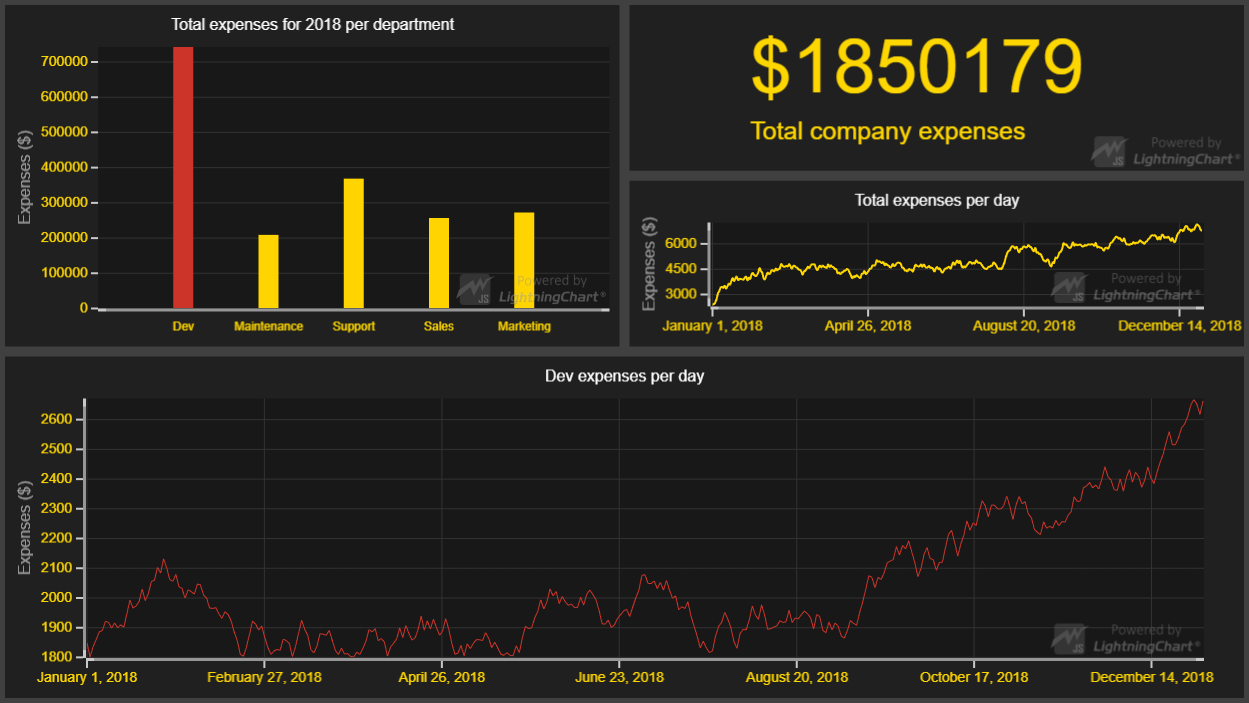
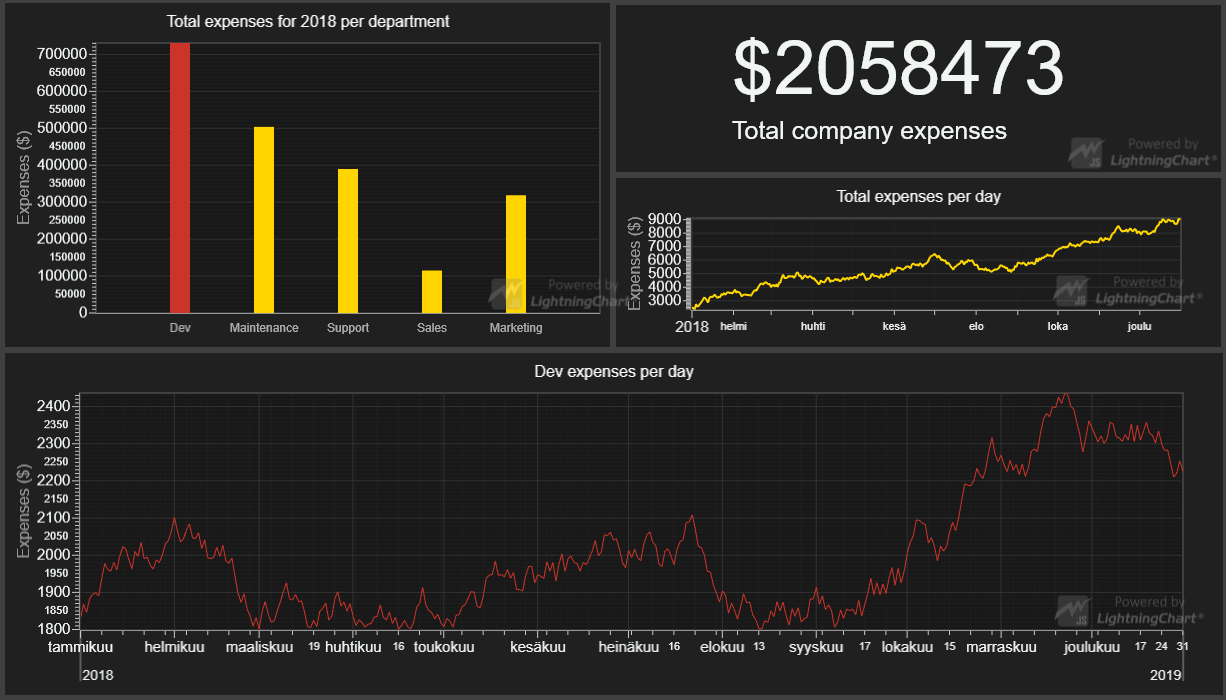
LCJS 2.0.0

diff --git a/src/index.js b/src/index.js
@@ -15,9 +15,10 @@ const {
     AutoCursorModes,
     AxisTickStrategies,
     emptyLine,
-    emptyTick,
     emptyFill,
-    AxisScrollStrategies
+    AxisScrollStrategies,
+    ColorRGBA,
+    Themes
 } = lcjs
 
 const {
@@ -54,6 +55,7 @@ const budgets = Promise.all(
 
 // Create dashboard which will host all chart and UI elements
 const db = lightningChart().Dashboard({
+    // theme: Themes.dark 
     numberOfRows: 3,
     numberOfColumns: 2
 })
@@ -87,7 +89,7 @@ const axisXSize = axisX.scale.getCellSize()
 // Modify X axis
 axisX
     // Disable default ticks.
-    .setTickStyle(emptyTick)
+    .setTickStrategy(AxisTickStrategies.Empty)
     // Disable mouse interactions
     .setMouseInteractions(false)
     // Set correct range, so that is in pixel coordinates
@@ -96,7 +98,9 @@ axisX
     .setScrollStrategy(undefined)
 
 // Modify Y axis
-barChart.getDefaultAxisY().setTitle('Expenses ($)')
+barChart
+    .getDefaultAxisY()
+    .setTitle('Expenses ($)')
     .setStrokeStyle(style => style.setThickness(0))
     .setNibStyle(emptyLine)
     .setMouseInteractions(false)
@@ -119,7 +123,9 @@ const customTicks = teams.map((team, i) => axisX
         // Change stroke style
         .setBackground(background => background
             .setStrokeStyle(emptyLine)
+            .setFillStyle(emptyFill)
         )
+        .setTextFillStyle(new SolidFill({ color: ColorRGBA(170, 170, 170) }))
     )
     // Disable gridstroke.
     .setGridStrokeStyle(emptyLine)
@@ -128,15 +134,13 @@ const customTicks = teams.map((team, i) => axisX
 
 // Decide on an origin for DateTime axes (shared between two charts).
 const dateOrigin = new Date(2018, 0, 1)
-const dateTimeTickStrategy = AxisTickStrategies.DateTime(dateOrigin)
 
 // Create chart for a single department costs distribution graph
 const lineChart = db.createChartXY({
     columnIndex: 0,
     rowIndex: 2,
     columnSpan: 2,
-    rowSpan: 1,
-    chartXYOptions: { defaultAxisXTickStrategy: dateTimeTickStrategy }
+    rowSpan: 1
 })
     .setPadding({ right: 40 })
 // Set the row height for the third row to take 50% of view space.
@@ -147,6 +151,13 @@ const lineSeries = lineChart
     .setName('Total Expenses')
     // Set selected fill color for the series
     .setStrokeStyle((style) => style.setFillStyle(selectedFillStyle))
+
+lineChart
+    .getDefaultAxisX()
+    .setTickStrategy(
+        AxisTickStrategies.DateTime,
+        (tickStrategy) => tickStrategy.setDateOrigin(dateOrigin)
+    )
 
 // Style chart selected department costs distribution
 budgets.then(
@@ -267,12 +278,18 @@ const totalCostsChart = db
         columnIndex: 1,
         rowIndex: 1,
         columnSpan: 1,
-        rowSpan: 1,
-        chartXYOptions: { defaultAxisXTickStrategy: dateTimeTickStrategy }
+        rowSpan: 1
     })
     // Specify ChartXY title
     .setTitle('Total expenses per day')
     .setPadding({ right: 40 })
+
+totalCostsChart
+    .getDefaultAxisX()
+    .setTickStrategy(
+        AxisTickStrategies.DateTime,
+        (tickStrategy) => tickStrategy.setDateOrigin(dateOrigin)
+    )
 
 const totalCost = totalCostsChart
     // Add the smooth line

diff --git a/README.md b/README.md
@@ -117,25 +117,25 @@ The dashboard grid is created with 4 rows and 2 columns. Some visualization comp
 
 ## API Links
 
-* Dashboard: [Dashboard]
-* XY cartesian chart: [ChartXY]
-* Axis: [Axis]
-* Axis tick strategies: [AxisTickStrategies]
-* cursor modes: [AutoCursorModes]
-* Segment series: [SegmentSeries]
-* Freeform line series: [LineSeries]
-* Spline series: [SplineSeries]
-* Custom tick: [CustomTick]
-* Solid LineStyle: [SolidLine]
-* Empty LineStyle: [emptyLine]
-* Solid FillStyle: [SolidFill]
-* Empty FillStyle: [emptyFill]
-* Empty TickStyle: [emptyTick]
-* Color palettes: [ColorPalettes]
-* UI Panel: [UIPanel]
-* UI Layout builders: [UILayoutBuilders]
-* UI Elements builders: [UIElementBuilders]
-* Font settings: [FontSettings]
+* [Dashboard]
+* [XY cartesian chart]
+* [Axis]
+* [Axis tick strategies]
+* [cursor modes]
+* [Segment series]
+* [Freeform line series]
+* [Spline series]
+* [Custom tick]
+* [Solid LineStyle]
+* [Empty LineStyle]
+* [Solid FillStyle]
+* [Empty FillStyle]
+* [Empty TickStyle]
+* [Color palettes]
+* [UI Panel]
+* [UI Layout builders]
+* [UI Elements builders]
+* [Font settings]
 
 
 ## Support
@@ -159,23 +159,23 @@ Direct developer email support can be purchased through a [Support Plan][4] or b
 © Arction Ltd 2009-2020. All rights reserved.
 
 
-[Dashboard]: https://www.arction.com/lightningchart-js-api-documentation/v1.3.0/classes/dashboard.html
-[ChartXY]: https://www.arction.com/lightningchart-js-api-documentation/v1.3.0/classes/chartxy.html
-[Axis]: https://www.arction.com/lightningchart-js-api-documentation/v1.3.0/classes/axis.html
-[AxisTickStrategies]: https://www.arction.com/lightningchart-js-api-documentation/v1.3.0/globals.html#axistickstrategies
-[AutoCursorModes]: https://www.arction.com/lightningchart-js-api-documentation/v1.3.0/enums/autocursormodes.html
-[SegmentSeries]: https://www.arction.com/lightningchart-js-api-documentation/v1.3.0/classes/segmentseries.html
-[LineSeries]: https://www.arction.com/lightningchart-js-api-documentation/v1.3.0/classes/lineseries.html
-[SplineSeries]: https://www.arction.com/lightningchart-js-api-documentation/v1.3.0/classes/splineseries.html
-[CustomTick]: https://www.arction.com/lightningchart-js-api-documentation/v1.3.0/classes/customtick.html
-[SolidLine]: https://www.arction.com/lightningchart-js-api-documentation/v1.3.0/classes/solidline.html
-[emptyLine]: https://www.arction.com/lightningchart-js-api-documentation/v1.3.0/globals.html#emptyline
-[SolidFill]: https://www.arction.com/lightningchart-js-api-documentation/v1.3.0/classes/solidfill.html
-[emptyFill]: https://www.arction.com/lightningchart-js-api-documentation/v1.3.0/globals.html#emptyfill
-[emptyTick]: https://www.arction.com/lightningchart-js-api-documentation/v1.3.0/globals.html#emptytick
-[ColorPalettes]: https://www.arction.com/lightningchart-js-api-documentation/v1.3.0/globals.html#colorpalettes
-[UIPanel]: https://www.arction.com/lightningchart-js-api-documentation/v1.3.0/classes/uipanel.html
-[UILayoutBuilders]: https://www.arction.com/lightningchart-js-api-documentation/v1.3.0/globals.html#uilayoutbuilders
-[UIElementBuilders]: https://www.arction.com/lightningchart-js-api-documentation/v1.3.0/globals.html#uielementbuilders
-[FontSettings]: https://www.arction.com/lightningchart-js-api-documentation/v1.3.0/classes/fontsettings.html
+[Dashboard]: https://www.arction.com/lightningchart-js-api-documentation/v2.0.0/classes/dashboard.html
+[XY cartesian chart]: https://www.arction.com/lightningchart-js-api-documentation/v2.0.0/classes/chartxy.html
+[Axis]: https://www.arction.com/lightningchart-js-api-documentation/v2.0.0/classes/axis.html
+[Axis tick strategies]: https://www.arction.com/lightningchart-js-api-documentation/v2.0.0/globals.html#axistickstrategies
+[cursor modes]: https://www.arction.com/lightningchart-js-api-documentation/v2.0.0/enums/autocursormodes.html
+[Segment series]: https://www.arction.com/lightningchart-js-api-documentation/v2.0.0/classes/segmentseries.html
+[Freeform line series]: https://www.arction.com/lightningchart-js-api-documentation/v2.0.0/classes/lineseries.html
+[Spline series]: https://www.arction.com/lightningchart-js-api-documentation/v2.0.0/classes/splineseries.html
+[Custom tick]: https://www.arction.com/lightningchart-js-api-documentation/v2.0.0/classes/customtick.html
+[Solid LineStyle]: https://www.arction.com/lightningchart-js-api-documentation/v2.0.0/classes/solidline.html
+[Empty LineStyle]: https://www.arction.com/lightningchart-js-api-documentation/v2.0.0/globals.html#emptyline
+[Solid FillStyle]: https://www.arction.com/lightningchart-js-api-documentation/v2.0.0/classes/solidfill.html
+[Empty FillStyle]: https://www.arction.com/lightningchart-js-api-documentation/v2.0.0/globals.html#emptyfill
+[Empty TickStyle]: https://www.arction.com/lightningchart-js-api-documentation/v2.0.0/globals.html#emptytick
+[Color palettes]: https://www.arction.com/lightningchart-js-api-documentation/v2.0.0/globals.html#colorpalettes
+[UI Panel]: https://www.arction.com/lightningchart-js-api-documentation/v2.0.0/classes/uipanel.html
+[UI Layout builders]: https://www.arction.com/lightningchart-js-api-documentation/v2.0.0/globals.html#uilayoutbuilders
+[UI Elements builders]: https://www.arction.com/lightningchart-js-api-documentation/v2.0.0/globals.html#uielementbuilders
+[Font settings]: https://www.arction.com/lightningchart-js-api-documentation/v2.0.0/classes/fontsettings.html
 
